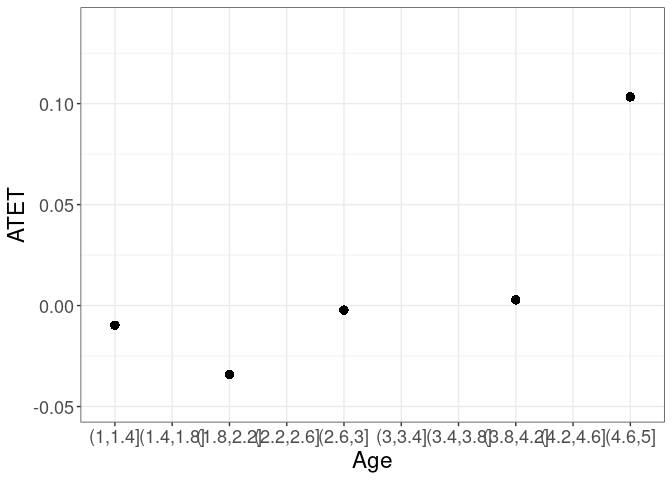
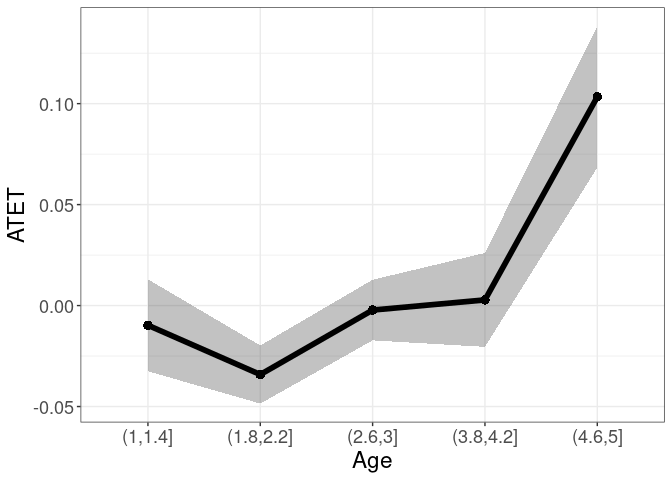
Docs

Changed region(s): [[0.2188, 0.0625, 0.9688, 0.8438], [0.125, 0.875, 0.9688, 0.9375], [0.1562, 0.6562, 0.1875, 0.6875]]

diff --git a/docs/index.html b/docs/index.html
@@ -164,10 +164,10 @@
 <span><span class="co">#R&gt;  Calculating residuals for the alternative model</span></span>
 <span><span class="co">#R&gt;  Calculating residuals for the alternative model completed in 36 seconds</span></span>
 <span><span class="co">#R&gt;  Calculating fitted values under the null hypothesis</span></span>
-<span><span class="co">#R&gt;  Calculating fitted values under the null hypothesis completed in 46 seconds</span></span>
+<span><span class="co">#R&gt;  Calculating fitted values under the null hypothesis completed in 47 seconds</span></span>
 <span><span class="co">#R&gt;  </span></span>
 <span><span class="co">#R&gt;  The main Loop of the Bootstrapping started</span></span>
-<span><span class="co">#R&gt;  Bootstrapping the statistic completed in 6 minutes and 45 seconds</span></span>
+<span><span class="co">#R&gt;  Bootstrapping the statistic completed in 6 minutes and 42 seconds</span></span>
 <span><span class="co">#R&gt;  </span></span>
 <span><span class="co">#R&gt;  BSC stat = 0.1346 </span></span>
 <span><span class="co">#R&gt;  BSC sd   = 0.003794 </span></span>
@@ -216,7 +216,7 @@
 <span><span class="co">#R&gt;  </span></span>
 <span><span class="co">#R&gt;  Bootstrapping standard errors (99 replications)</span></span>
 <span><span class="co">#R&gt;  Calculating residuals completed</span></span>
-<span><span class="co">#R&gt;  Bootstrapping standard errors completed in 1 minute and 49 seconds</span></span>
+<span><span class="co">#R&gt;  Bootstrapping standard errors completed in 1 minute and 46 seconds</span></span>
 <span><span class="co">#R&gt;  </span></span>
 <span><span class="co">#R&gt;  TTa sd = 0.005820258</span></span></code></pre></div>
 <p><strong>didnpreg</strong> returns a class <strong>didnp</strong> object. This object contains estimates of the average treatment effects and their standard errors. To see these, we can call the <strong>summary</strong> function.</p>
@@ -238,7 +238,7 @@
 <span><span class="co">#R&gt;  6   yrimmig ordered 8.688889e-06</span></span>
 <span><span class="co">#R&gt;  7  ageimmig ordered 1.697394e-05</span></span>
 <span><span class="co">#R&gt;  </span></span>
-<span><span class="co">#R&gt;  Bootstrapping standard errors (99 replications) completed in 1 minute and 49 seconds</span></span>
+<span><span class="co">#R&gt;  Bootstrapping standard errors (99 replications) completed in 1 minute and 46 seconds</span></span>
 <span><span class="co">#R&gt;  </span></span>
 <span><span class="co">#R&gt;  Unconditional Treatment Effect on the Treated (ATET):</span></span>
 <span><span class="co">#R&gt;  </span></span>
@@ -279,11 +279,11 @@
 <span><span class="co">#R&gt;  </span></span>
 <span><span class="co">#R&gt;  Calculating ATET: TTb</span></span>
 <span><span class="co">#R&gt;  TTb = 0.02163795, N(TTb) = 56959</span></span>
-<span><span class="co">#R&gt;  Calculating ATET completed in 21 second</span></span>
+<span><span class="co">#R&gt;  Calculating ATET completed in 22 seconds</span></span>
 <span><span class="co">#R&gt;  </span></span>
 <span><span class="co">#R&gt;  Bootstrapping standard errors (99 replications)</span></span>
 <span><span class="co">#R&gt;  Calculating residuals completed</span></span>
-<span><span class="co">#R&gt;  Bootstrapping standard errors completed in 18 minutes and 45 seconds</span></span>
+<span><span class="co">#R&gt;  Bootstrapping standard errors completed in 18 minutes and 51 second</span></span>
 <span><span class="co">#R&gt;  TTb sd = 0.0072693185</span></span></code></pre></div>
 </div>
 <div class="section level3">
@@ -371,13 +371,6 @@
 <span><span class="co">#R&gt;  [1] "2.1 TTa and TTb"</span></span>
 <span><span class="co">#R&gt;  [1] "2.1.1 single 'by'"</span></span>
 <span><span class="co">#R&gt;  [1] "2.1.1.1 TTb"</span></span>
-<span><span class="co">#R&gt;   by[1:20]:</span></span>
-<span><span class="co">#R&gt;   [1] (4.6,5]   (2.6,3]   (1,1.4]   (1,1.4]   (4.6,5]   (1,1.4]   (3.8,4.2]</span></span>
-<span><span class="co">#R&gt;   [8] (1,1.4]   (4.6,5]   (1.8,2.2] (1,1.4]   (4.6,5]   (3.8,4.2] (1.8,2.2]</span></span>
-<span><span class="co">#R&gt;  [15] (1.8,2.2] (3.8,4.2] (4.6,5]   (2.6,3]   (1.8,2.2] (3.8,4.2]</span></span>
-<span><span class="co">#R&gt;  10 Levels: (1,1.4] &lt; (1.4,1.8] &lt; (1.8,2.2] &lt; (2.2,2.6] &lt; ... &lt; (4.6,5]</span></span>
-<span><span class="co">#R&gt;   length(by):</span></span>
-<span><span class="co">#R&gt;  [1] 56959</span></span>
 <span><span class="co">#R&gt;   d1b:</span></span>
 <span><span class="co">#R&gt;             atet     atet.sd count        by</span></span>
 <span><span class="co">#R&gt;  1  -0.011711563 0.008598465 11750   (1,1.4]</span></span>
@@ -385,22 +378,13 @@
 <span><span class="co">#R&gt;  5   0.019034473 0.006023782 11479   (2.6,3]</span></span>
 <span><span class="co">#R&gt;  8   0.033056671 0.009346651 11078 (3.8,4.2]</span></span>
 <span><span class="co">#R&gt;  10  0.082177748 0.016793647 10797   (4.6,5]</span></span>
-<span><span class="co">#R&gt;   length(obj$TTa.positions.in.TTb):</span></span>
-<span><span class="co">#R&gt;  [1] 5387</span></span>
-<span><span class="co">#R&gt;   length(by):</span></span>
-<span><span class="co">#R&gt;  [1] 56959</span></span>
 <span></span>
 <span><span class="va">tym1b_gr_age</span><span class="op">$</span><span class="va">data.a</span></span>
 <span><span class="co">#R&gt;             atet     atet.sd count        by</span></span>
 <span><span class="co">#R&gt;  1  -0.009763996 0.011617326  1059   (1,1.4]</span></span>
-<span><span class="co">#R&gt;  2           NaN          NA     0 (1.4,1.8]</span></span>
 <span><span class="co">#R&gt;  3  -0.034153071 0.007341389  1100 (1.8,2.2]</span></span>
-<span><span class="co">#R&gt;  4           NaN          NA     0 (2.2,2.6]</span></span>
 <span><span class="co">#R&gt;  5  -0.002217522 0.007659071  1062   (2.6,3]</span></span>
-<span><span class="co">#R&gt;  6           NaN          NA     0   (3,3.4]</span></span>
-<span><span class="co">#R&gt;  7           NaN          NA     0 (3.4,3.8]</span></span>
 <span><span class="co">#R&gt;  8   0.002805505 0.011864983  1087 (3.8,4.2]</span></span>
-<span><span class="co">#R&gt;  9           NaN          NA     0 (4.2,4.6]</span></span>
 <span><span class="co">#R&gt;  10  0.103344508 0.017867100  1079   (4.6,5]</span></span>
 <span><span class="va">tym1b_gr_age</span><span class="op">$</span><span class="va">data.b</span></span>
 <span><span class="co">#R&gt;             atet     atet.sd count        by</span></span>
@@ -410,8 +394,7 @@
 <span><span class="co">#R&gt;  8   0.033056671 0.009346651 11078 (3.8,4.2]</span></span>
 <span><span class="co">#R&gt;  10  0.082177748 0.016793647 10797   (4.6,5]</span></span>
 <span></span>
-<span><span class="va">tym1b_gr_age</span><span class="op">$</span><span class="va">plot.a</span></span>
-<span><span class="co">#R&gt;  Warning: Removed 5 rows containing missing values (`geom_point()`).</span></span></code></pre></div>
+<span><span class="va">tym1b_gr_age</span><span class="op">$</span><span class="va">plot.a</span></span></code></pre></div>
 <p><img src="reference/figures/README-gr_age-1.png"><!-- --></p>
 <div class="sourceCode" id="cb18"><pre class="downlit sourceCode r">
 <code class="sourceCode R"><span><span class="va">tym1b_gr_age</span><span class="op">$</span><span class="va">plot.b</span></span></code></pre></div>
@@ -419,8 +402,7 @@
 <p>Ameding ggplot object is easy. For example adding a 0 horizontal line is</p>
 <div class="sourceCode" id="cb19"><pre class="downlit sourceCode r">
 <code class="sourceCode R"><span><span class="va">tym1b_gr_age</span><span class="op">$</span><span class="va">plot.a</span> <span class="op">+</span></span>
-<span>  <span class="fu"><a href="https://ggplot2.tidyverse.org/reference/geom_abline.html" class="external-link">geom_hline</a></span><span class="op">(</span>yintercept <span class="op">=</span> <span class="fl">0</span><span class="op">)</span></span>
-<span><span class="co">#R&gt;  Warning: Removed 5 rows containing missing values (`geom_point()`).</span></span></code></pre></div>
+<span>  <span class="fu"><a href="https://ggplot2.tidyverse.org/reference/geom_abline.html" class="external-link">geom_hline</a></span><span class="op">(</span>yintercept <span class="op">=</span> <span class="fl">0</span><span class="op">)</span></span></code></pre></div>
 <p><img src="reference/figures/README-gr_age2-1.png"><!-- --></p>
 <blockquote>
 <p>Anternatively, one can use the <code>data.a</code> and <code>data.b</code> objects to plot from scratch.</p>
